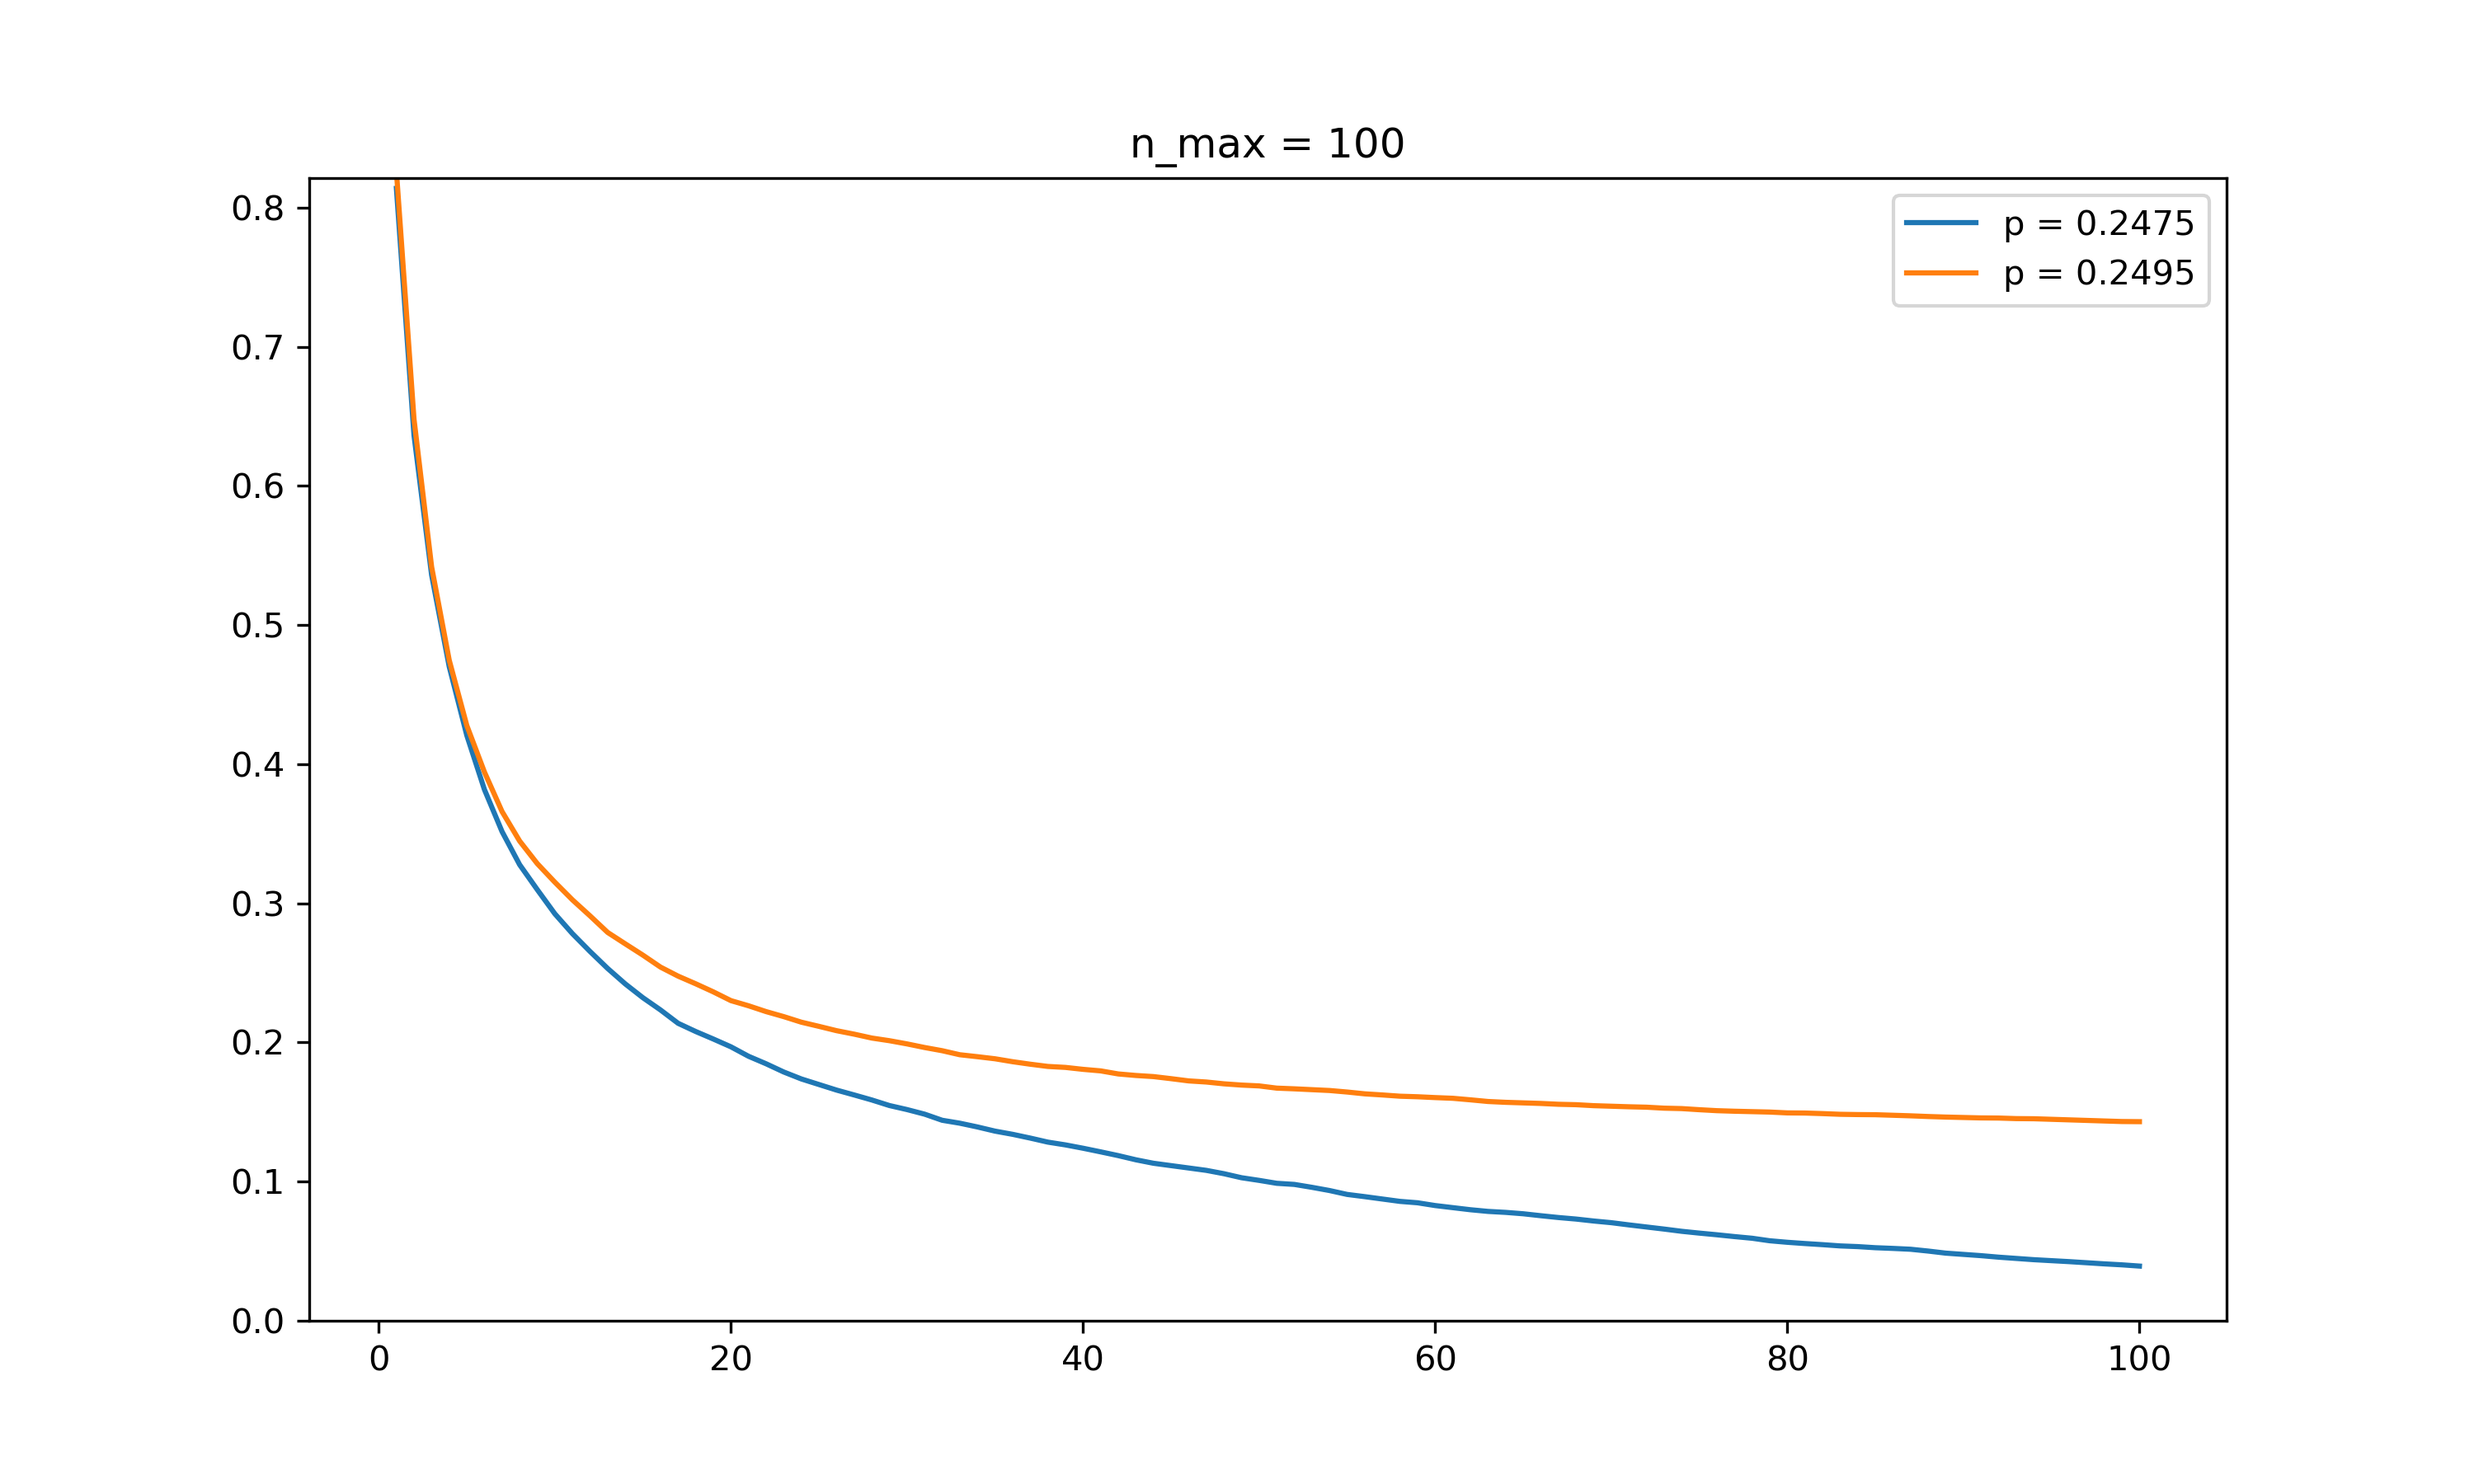
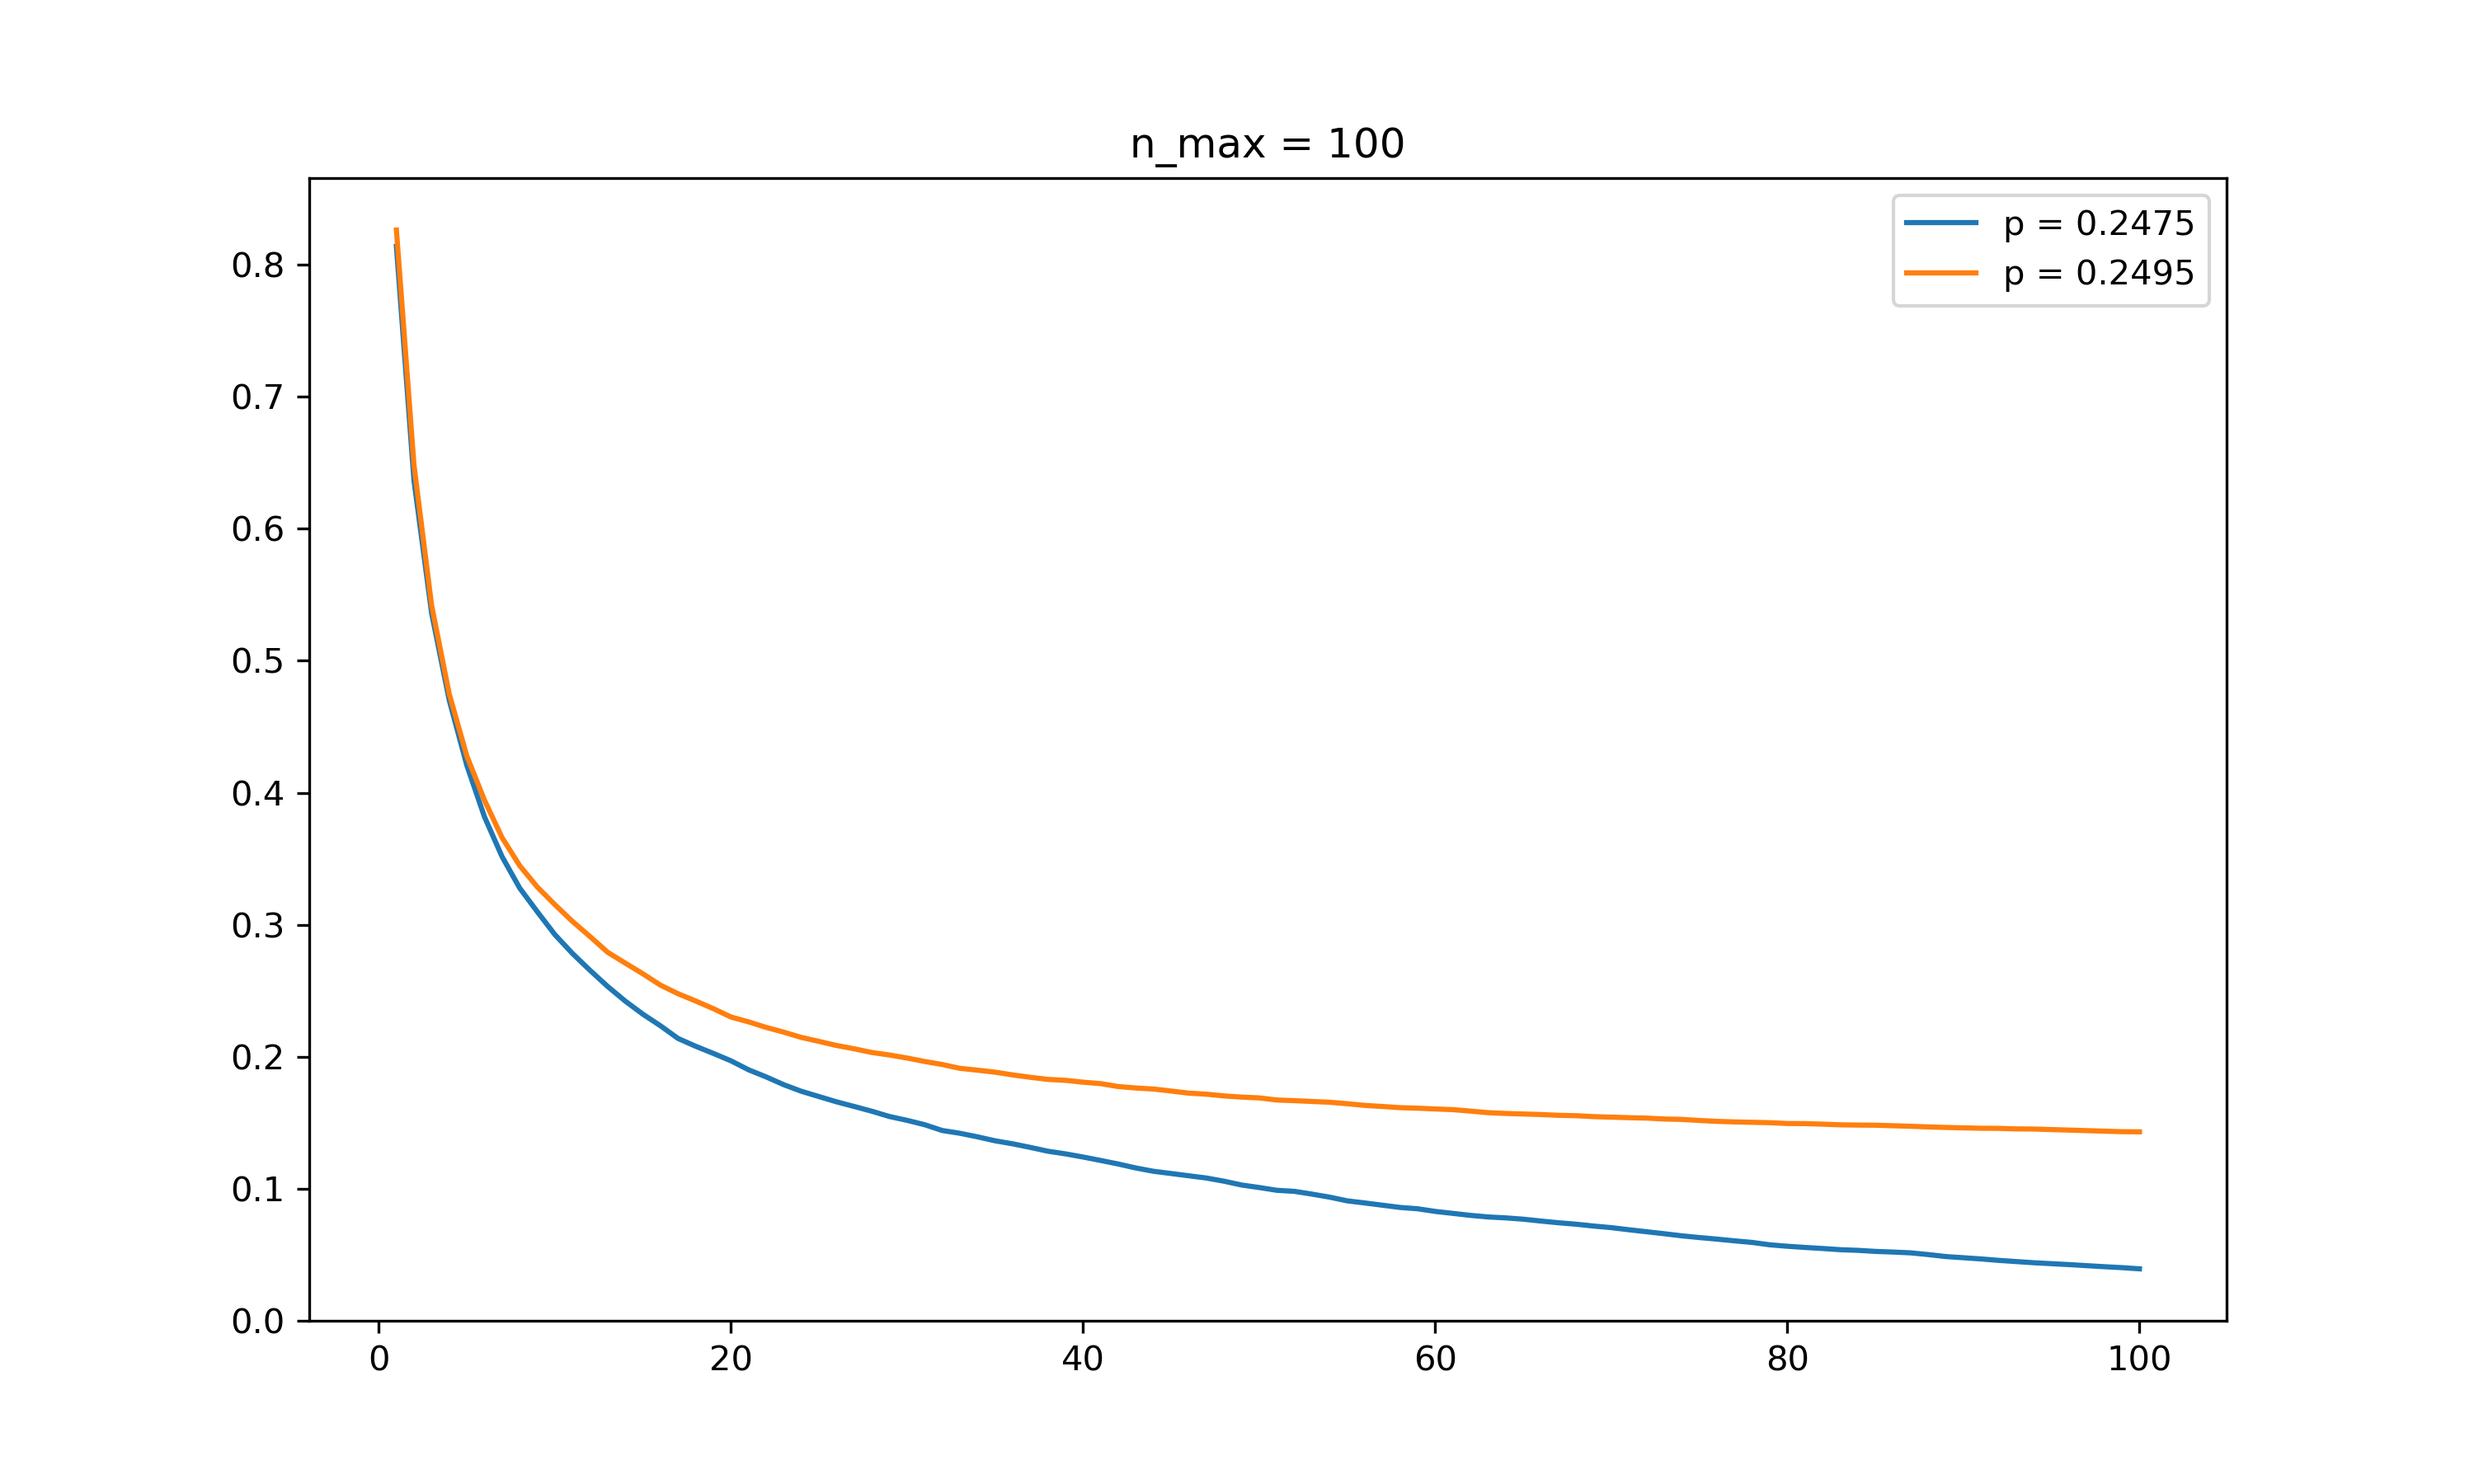
update

diff --git a/temp2.py b/temp2.py
@@ -5,7 +5,7 @@ import matplotlib.pyplot as plt
 
 # Collect all data
 
-folders = ["test", "test2", "test3", "test4", "test5", "test6", "test7"]
+folders = ["test", "test2", "test3", "test4", "test5", "test6", "test7", "test8"]
 dest_folder_path = os.path.join(os.getcwd(), "all_record")
 rec = {}
 
@@ -69,7 +69,7 @@ for n_max in rec.keys():
         density = [rec[n_max][p][i]/trials_done for i in range(1, n_max+1)]
         plt.plot(range(1, n_max+1), density, label = f"p = {p}")
     
-    plt.ylim([0.0, max_density])
+    # plt.ylim([0.0, max_density])
     plt.legend()
     plt.savefig(os.path.join(dest_folder_path, f"n_max = {n_max}.png"))
     plt.close()

diff --git a/seqn.py b/seqn.py
@@ -9,4 +9,4 @@ p_sparsh_mesh = [0.20, 0.21, 0.22, 0.23, 0.24, 0.25]
 p_long = [0.24, 0.25]
 p_ultrafine_mesh = [0.2485, 0.249]
 for p in p_ultrafine_mesh:
-    mfp.main(p, n_max = 125, trials = 1000, num_processes = 5, test_folder = "test7", mesh_folder = "ultrafine_ultralong_mesh")
+    mfp.main(p, n_max = 150, trials = 1000, num_processes = 5, test_folder = "test8", mesh_folder = "ultrafine_ultralong2_mesh")
